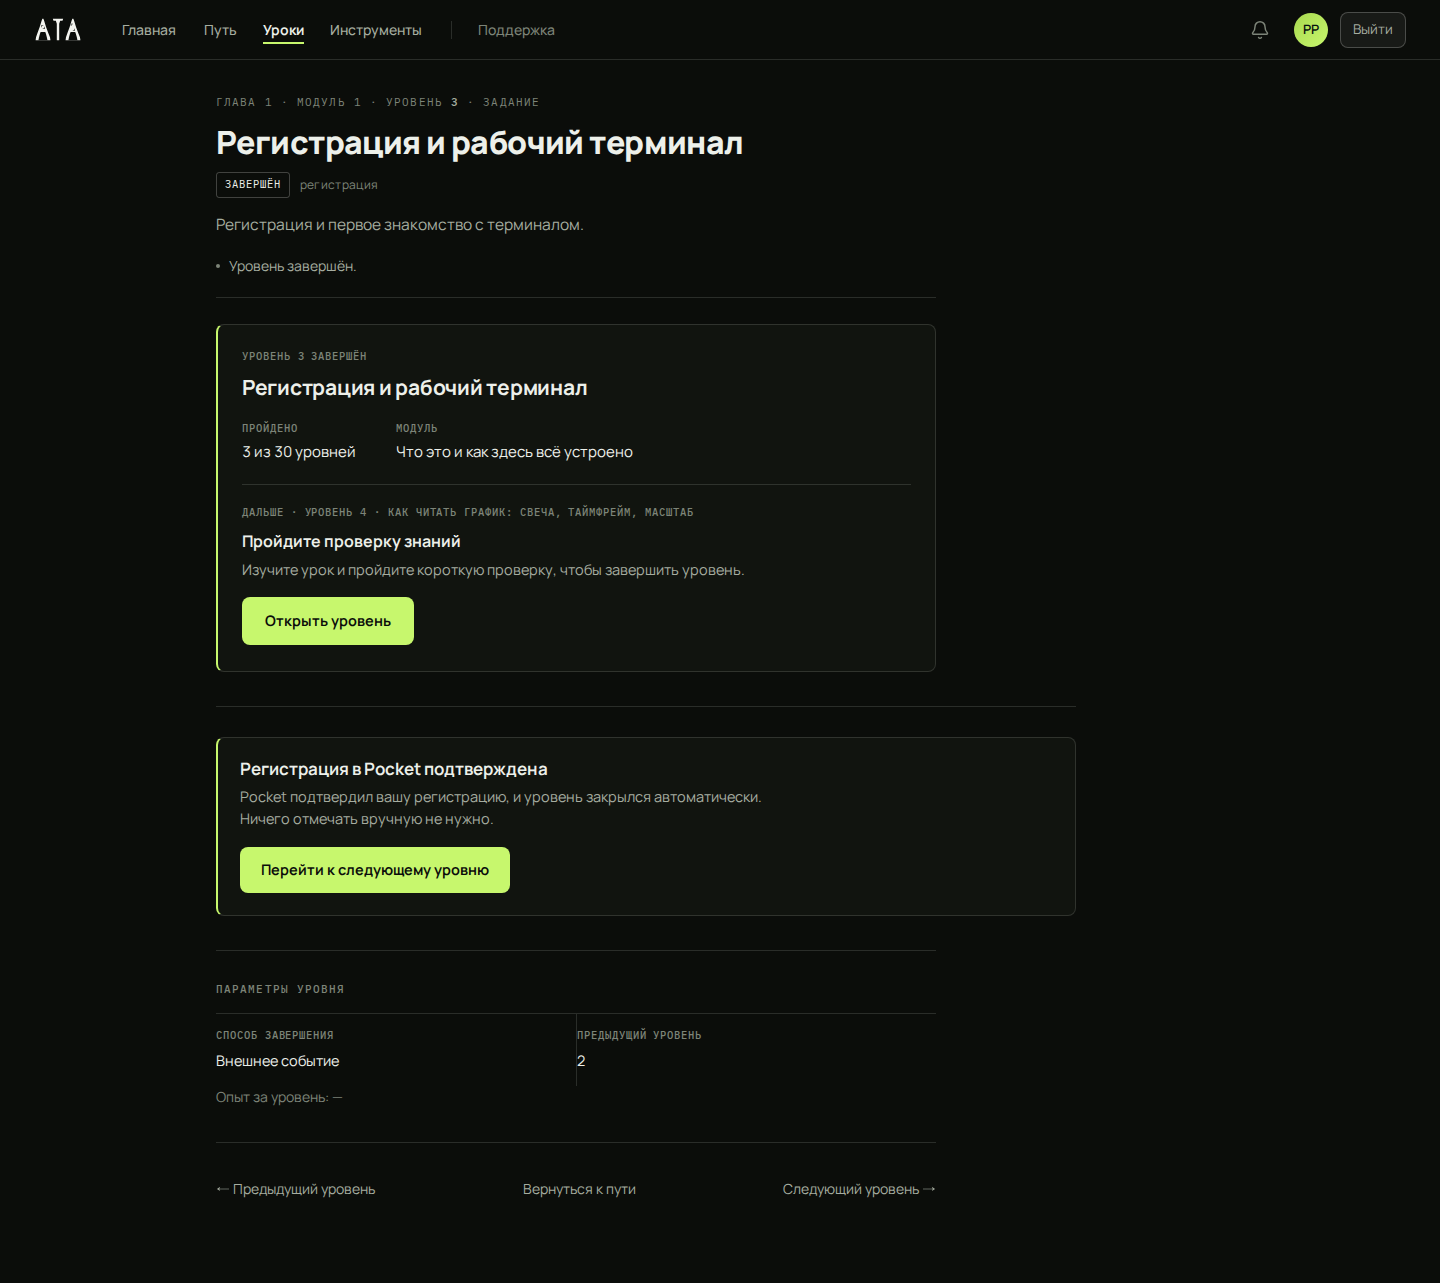
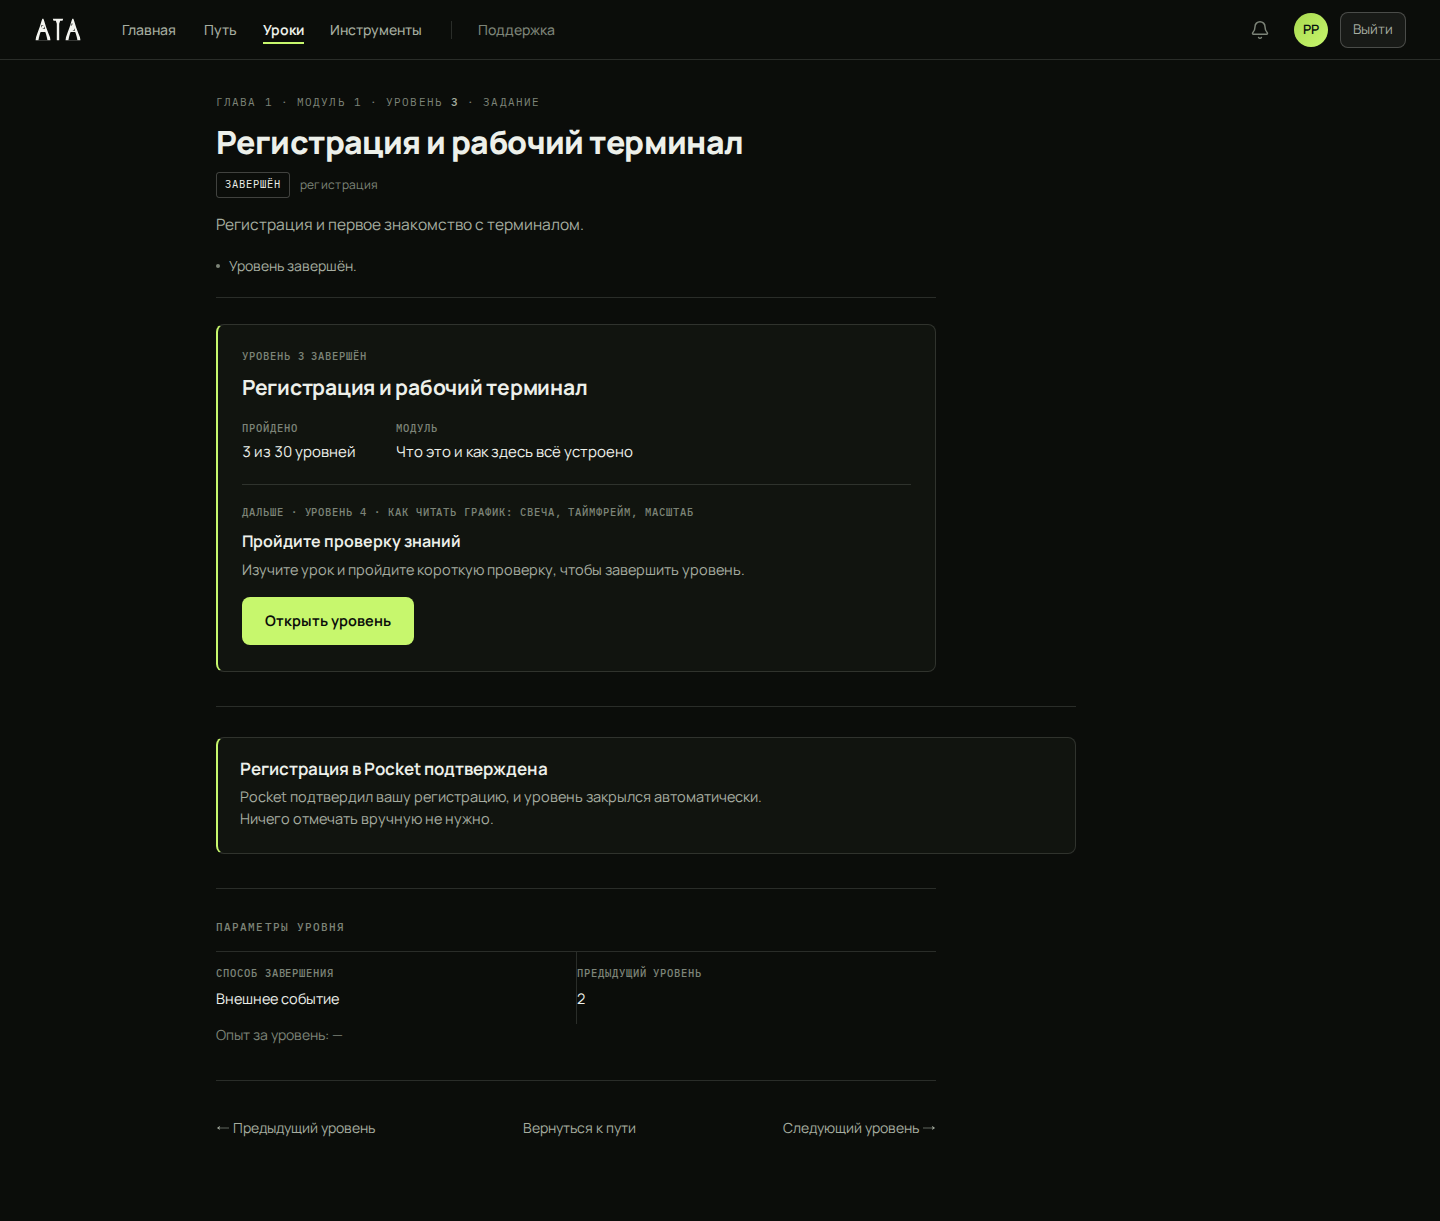
Review: the settled registration's capture is the final build; finding 20

diff --git a/design-memory/reviews/levels-1-30-review.md b/design-memory/reviews/levels-1-30-review.md
@@ -59,6 +59,7 @@ program on the stand, at 1440:
 | 17 | registration level, completed | two buttons to the next level (the completion moment's and the confirmation's) | minor | fixed |
 | 18 | report, 390 | the form is 8 900px tall — five records of ten fields is the assignment | minor | open — for the owner's review |
 | 19 | lesson 9 | the lesson printed the document's notes to its producers («в образце обязательно…») | major | fixed in the package |
+| 20 | registration level, completed | with its button gone (#17) the confirmation kept the button's margin as empty space under its sentence | minor | fixed |
 
 ## Fixes applied
 
@@ -112,7 +113,8 @@ the stand, labelled «Тестовая запись стенда — не уче
 
 ## The chain, end to end (on the stand)
 
-35 checks, all passing, in the dev server and again in a production build of the same tree: the
+35 checks, all passing, in the dev server and again in a production build of the same tree (the
+final tree, `68b37a9`, each run on a freshly seeded database): the
 start control's words; the clock on arrival; the test after the start; the разбор, its second and
 the locked attempt; the rewatch playing from 1:55 with the player in view; a clean retry; four right
 answers completing the level (+100 XP) and naming the next; a lesson without a test (+50 XP); the
@@ -174,5 +176,6 @@ contrast problems none · unadapted landing-only none.
 ## Sign-off
 
 Critical and major findings fixed; one minor (the report's length on a phone) left for the owner.
+`final/level3-registration-settled-1440.png` is the production build of `68b37a9` (one way onward).
 Not checked under a learner on PREPROD: sign-in there is CAPTCHA-gated and an agent cannot mint a
 session — the owner checks it after the release.
